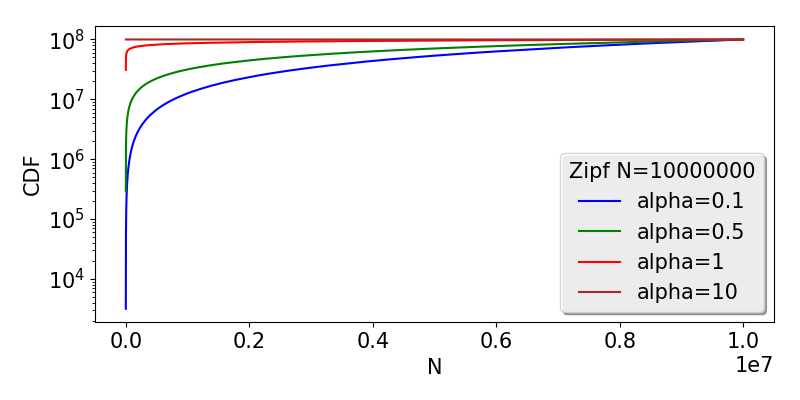
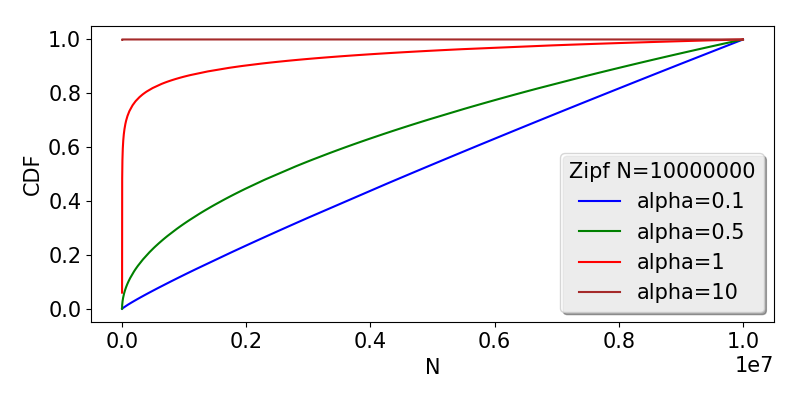
editing vmware review and zipf charts

diff --git a/scripts/plot.py b/scripts/plot.py
@@ -535,7 +535,9 @@ def main():
             raise NotImplementedError("hist")
 
         elif args.ptype == PlotType.cdf:
-            xc, yc = gen_cdf(df[ycol], 100000)
+            # xc, yc = gen_cdf(df[ycol], 100000)
+            xc = xcol
+            yc = np.cumsum(df[ycol]) / sum(df[ycol])
 
             # See if head and/or tail needs trimming
             # NOTE: We don't remove values, instead we limit the axes. This is essentially 
@@ -599,7 +601,7 @@ def main():
         for idx, ls in enumerate(args.linestyle):
             lns[idx].set_linestyle(ls)
     
-    if args.lloc != LegendLoc.none and args.ptype in [PlotType.bar, PlotType.barstacked, PlotType.hist]:
+    if args.lloc != LegendLoc.none and args.ptype in [PlotType.scatter, PlotType.bar, PlotType.barstacked, PlotType.hist]:
         plt.legend(loc=args.lloc.matplotlib_loc(), title=args.ltitle)
     else:
         # TODO: Fix labels for bar plot
